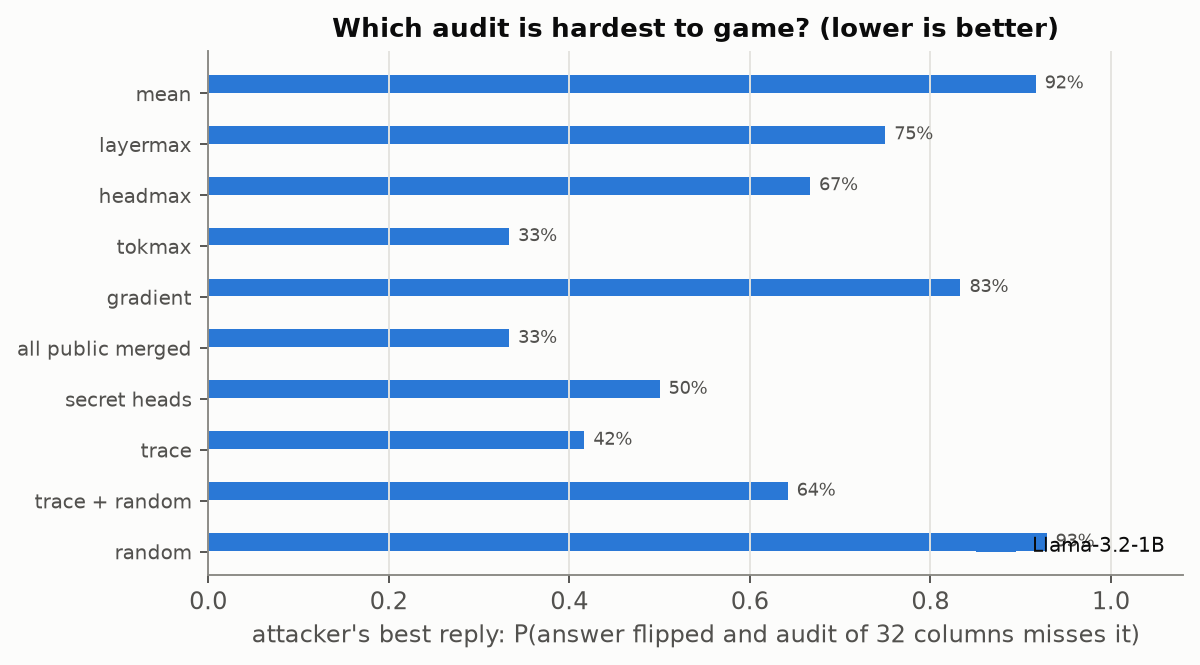
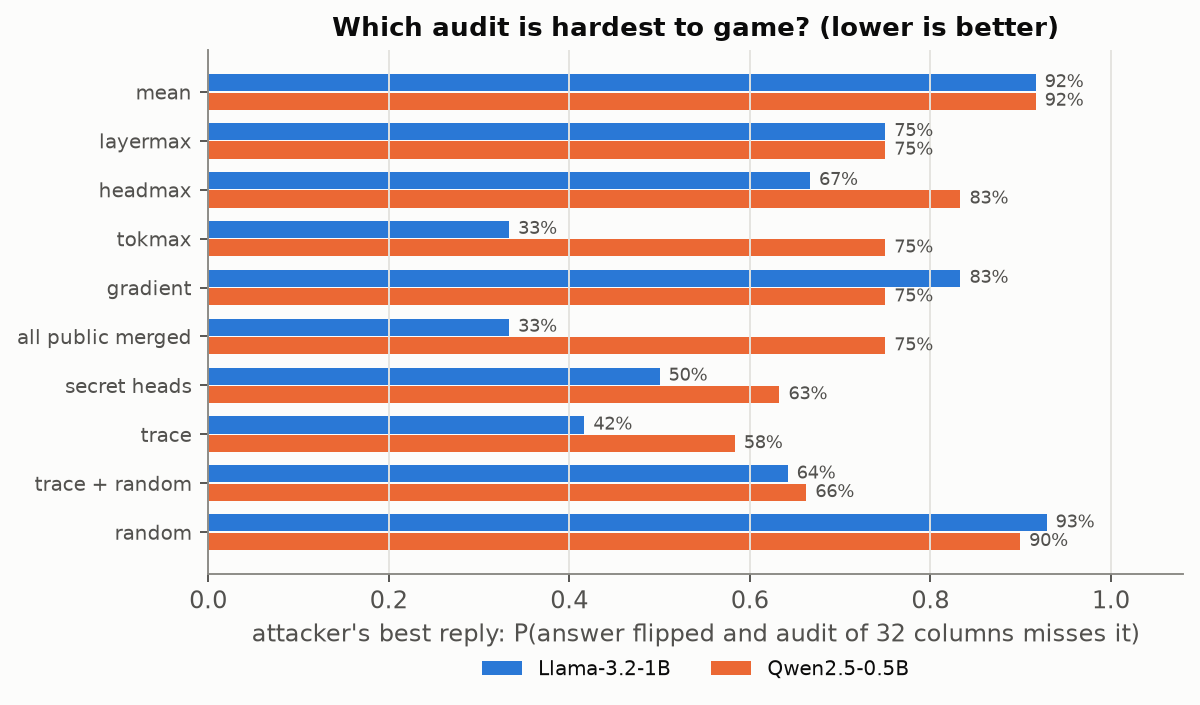
Report defense game across both models

diff --git a/docs/paper.html b/docs/paper.html
@@ -52,7 +52,7 @@ code{font-size:13px}.refs{font-size:13.5px}
 <h2>4. One column is enough</h2><p>We forge one column, at one of five depths and three kinds of position: the last token of the fact's value, a uniformly random non-sink token, and the last document token. The forger may change the residual stream there by up to β times its norm. It then runs the rest of the prefill honestly. Over 24 memos per model (mean length 446 and 429 tokens) and 576 attacks per model, 446 of the Llama forgeries and 434 of the Qwen forgeries made the trusted node answer exactly the attacker's value. At β&nbsp;=&nbsp;1, the success rate across all layers and positions is 86% for Llama and 80% for Qwen. Position barely matters: a forged column on an unrelated token, far from the fact, works about as well as one on the fact itself. The attack does not need to edit the fact. It needs one place the question reads.</p><p>The full column check confirms the structure from §3.1. In 99.8% (Llama) and 98.6% (Qwen) of successful forgeries, the forged column is the <i>only</i> column that fails. The few exceptions are forgeries that also change later columns enough to show. No honest cache failed a single column: the largest honest score over all 48 evaluation memos was 0.79 for Llama and 0.98 for Qwen, against a threshold of 1. These memos are disjoint from the 20 calibration memos.</p><figure><img src="figures/forge_success.png" alt="forge_success"><figcaption>Figure 1. Success rate of single-column forgeries (β = 1) by layer and position kind, with 95% Wilson intervals.</figcaption></figure><figure><img src="figures/forge_budget.png" alt="forge_budget"><figcaption>Figure 2. Success against the perturbation budget β at the middle layer.</figcaption></figure><table class=""><tr><th>model</th><th>layer</th><th>β</th><th>success</th><th>value pos.</th><th>random pos.</th><th>last pos.</th><th>only forged col. fails</th></tr><tr><td>Llama-3.2-1B</td><td>1</td><td>1</td><td>60/72</td><td>96%</td><td>75%</td><td>79%</td><td>98%</td></tr><tr><td>Llama-3.2-1B</td><td>4</td><td>1</td><td>60/72</td><td>92%</td><td>88%</td><td>71%</td><td>100%</td></tr><tr><td>Llama-3.2-1B</td><td>8</td><td>0.25</td><td>12/72</td><td>29%</td><td>8%</td><td>12%</td><td>100%</td></tr><tr><td>Llama-3.2-1B</td><td>8</td><td>0.5</td><td>55/72</td><td>71%</td><td>71%</td><td>88%</td><td>100%</td></tr><tr><td>Llama-3.2-1B</td><td>8</td><td>1</td><td>69/72</td><td>96%</td><td>96%</td><td>96%</td><td>100%</td></tr><tr><td>Llama-3.2-1B</td><td>8</td><td>2</td><td>70/72</td><td>92%</td><td>100%</td><td>100%</td><td>100%</td></tr><tr><td>Llama-3.2-1B</td><td>12</td><td>1</td><td>66/72</td><td>83%</td><td>92%</td><td>100%</td><td>100%</td></tr><tr><td>Llama-3.2-1B</td><td>15</td><td>1</td><td>54/72</td><td>50%</td><td>83%</td><td>92%</td><td>100%</td></tr><tr><td>Qwen2.5-0.5B</td><td>1</td><td>1</td><td>47/72</td><td>92%</td><td>58%</td><td>46%</td><td>96%</td></tr><tr><td>Qwen2.5-0.5B</td><td>6</td><td>1</td><td>66/72</td><td>100%</td><td>83%</td><td>92%</td><td>95%</td></tr><tr><td>Qwen2.5-0.5B</td><td>12</td><td>0.25</td><td>18/72</td><td>25%</td><td>21%</td><td>29%</td><td>100%</td></tr><tr><td>Qwen2.5-0.5B</td><td>12</td><td>0.5</td><td>58/72</td><td>83%</td><td>67%</td><td>92%</td><td>100%</td></tr><tr><td>Qwen2.5-0.5B</td><td>12</td><td>1</td><td>69/72</td><td>96%</td><td>96%</td><td>96%</td><td>100%</td></tr><tr><td>Qwen2.5-0.5B</td><td>12</td><td>2</td><td>70/72</td><td>100%</td><td>96%</td><td>96%</td><td>99%</td></tr><tr><td>Qwen2.5-0.5B</td><td>18</td><td>1</td><td>66/72</td><td>83%</td><td>92%</td><td>100%</td><td>100%</td></tr><tr><td>Qwen2.5-0.5B</td><td>23</td><td>1</td><td>40/72</td><td>71%</td><td>58%</td><td>38%</td><td>100%</td></tr></table><p class='cap'>Table 1. Single-column forgeries. 24 tasks × 3 positions per row.</p>
 <h2>5. Auditing where the question reads</h2><p>A full check is a second prefill, so the practical question is how few columns an audit needs. Uniform sampling of <i>k</i> columns catches one bad column with probability <i>k/T</i>. The data match: 64 random columns catch 15% of Llama forgeries and 15% of Qwen forgeries. Checking the 4 sinks plus the 4 columns with the highest value-weighted attention (<i>k</i>&nbsp;=&nbsp;8 in total) catches 91% and 77%. With <i>k</i>&nbsp;=&nbsp;32 it catches 98% and 95%. The median forged column is the 5th most-read column, counting the four sinks: to change the answer, the forged column has to be read, and reading is visible. In 79% of Llama forgeries and 66% of Qwen forgeries, the single most-read non-sink column <i>is</i> the forged one.</p><p>Forgeries on the last document token are the easiest to find (top-8 catches 97% on Llama). The last token is read heavily by the question in any case. Forgeries on the fact's own value token are the hardest (84%), because the honest value token is already among the most-read, so a forgery there competes with the real signal. Qwen is harder throughout. With only 2 KV heads, its attention spreads over more columns, so the forged one is less of an outlier.</p><figure><img src="figures/detection.png" alt="detection"><figcaption>Figure 3. Probability that an audit of k columns contains the forged column. Exact hypergeometric probabilities for random plans, averaged over successful forgeries.</figcaption></figure><table class=""><tr><th>model</th><th>forgeries</th><th>top-8</th><th>top-16</th><th>top-32</th><th>top-8 + 8 random</th><th>random 4</th><th>random 16</th><th>random 64</th></tr><tr><td>Llama-3.2-1B</td><td>446</td><td>91%</td><td>96%</td><td>98%</td><td>91%</td><td>0.9%</td><td>3.7%</td><td>14.5%</td></tr><tr><td>Qwen2.5-0.5B</td><td>434</td><td>77%</td><td>86%</td><td>95%</td><td>78%</td><td>0.9%</td><td>3.8%</td><td>15.1%</td></tr></table><p class='cap'>Table 2. Detection of successful single-column forgeries. Top-k includes the 4 sink columns.</p><h3>5.1 Long documents</h3><p>The ratio matters more as documents grow. With the facts scattered through Moby-Dick (Llama, layers L/4, L/2, 3L/4), a 2044-token cache leaves uniform 64-column audits at 3.2%, while top-32 still catches 100%. The forged column's median rank stays small as <i>T</i> grows, so the audit cost in columns stays flat while the uniform cost grows linearly.</p><table class=""><tr><th>T (tokens)</th><th>success</th><th>only forged fails</th><th>top-8</th><th>top-16</th><th>top-32</th><th>random 64</th><th>median rank</th></tr><tr><td>2044</td><td>97/108</td><td>99.0%</td><td>96%</td><td>100%</td><td>100%</td><td>3.2%</td><td>5</td></tr></table><p class='cap'>Table 3. Llama-3.2-1B on long documents.</p>
 <h2>6. Adaptive attackers</h2><p>The audit's strength in §5 rests on a forged column having to be read. An attacker who knows the scoring rule can try to be read <i>enough</i> without being read <i>most</i>. Our adaptive forger adds a hinge penalty that pushes each forged column's score below 0.7× the score of the <i>k</i>-th ranked other column. The score is computed on its own forged cache with the trusted node's question, which we let the attacker know in advance. It attacks one of two scores: <i>mean</i> (the default in §5) or <i>layermax</i> (per-layer normalised, max over layers). It can also spread the edit over <i>m</i> random columns.</p><h3>Llama-3.2-1B</h3><table class="small"><tr><th>attacker</th><th>success</th><th>rank (mean)</th><th>rank (layermax)</th><th>rank (grad)</th><th>top-32 mean</th><th>top-32 layermax</th><th>ensemble-16</th><th>top-32 + 32 random</th><th>random 64</th><th>direct</th></tr><tr><td>no hiding (λ = 0)</td><td>16/16</td><td>0</td><td>0</td><td>0</td><td>100%</td><td>100%</td><td>100%</td><td>100%</td><td>14%</td><td>100%</td></tr><tr><td>m = 1, hide below top-4, vs. mean</td><td>14/16</td><td>10</td><td>0</td><td>22</td><td>100%</td><td>100%</td><td>100%</td><td>100%</td><td>15%</td><td>71%</td></tr><tr><td>m = 1, hide below top-28, vs. mean</td><td>10/16</td><td>50</td><td>11</td><td>49</td><td>0%</td><td>100%</td><td>70%</td><td>8%</td><td>15%</td><td>60%</td></tr><tr><td>m = 1, hide below top-4, vs. layermax</td><td>12/16</td><td>38</td><td>10</td><td>54</td><td>42%</td><td>100%</td><td>92%</td><td>47%</td><td>15%</td><td>83%</td></tr><tr><td>m = 1, hide below top-12, vs. layermax</td><td>9/16</td><td>20</td><td>23</td><td>38</td><td>67%</td><td>78%</td><td>56%</td><td>69%</td><td>16%</td><td>78%</td></tr><tr><td>m = 1, hide below top-28, vs. layermax</td><td>8/16</td><td>50</td><td>35</td><td>47</td><td>25%</td><td>38%</td><td>38%</td><td>32%</td><td>16%</td><td>75%</td></tr><tr><td>m = 1, hide below top-60, vs. layermax</td><td>6/16</td><td>2</td><td>8</td><td>26</td><td>83%</td><td>83%</td><td>83%</td><td>85%</td><td>14%</td><td>100%</td></tr><tr><td>m = 4, hide below top-12, vs. layermax</td><td>13/16</td><td>4</td><td>7</td><td>14</td><td>77%</td><td>100%</td><td>85%</td><td>84%</td><td>47%</td><td>92%</td></tr><tr><td>m = 16, hide below top-12, vs. layermax</td><td>13/16</td><td>0</td><td>0</td><td>1</td><td>100%</td><td>100%</td><td>100%</td><td>100%</td><td>92%</td><td>92%</td></tr><tr><td>m = 64, hide below top-12, vs. layermax</td><td>15/16</td><td>0</td><td>0</td><td>0</td><td>100%</td><td>100%</td><td>100%</td><td>100%</td><td>100%</td><td>100%</td></tr></table><h3>Qwen2.5-0.5B</h3><table class="small"><tr><th>attacker</th><th>success</th><th>rank (mean)</th><th>rank (layermax)</th><th>rank (grad)</th><th>top-32 mean</th><th>top-32 layermax</th><th>ensemble-16</th><th>top-32 + 32 random</th><th>random 64</th><th>direct</th></tr><tr><td>no hiding (λ = 0)</td><td>16/16</td><td>0</td><td>0</td><td>7</td><td>100%</td><td>100%</td><td>100%</td><td>100%</td><td>18%</td><td>100%</td></tr><tr><td>m = 1, hide below top-4, vs. mean</td><td>15/16</td><td>12</td><td>0</td><td>23</td><td>87%</td><td>87%</td><td>87%</td><td>88%</td><td>16%</td><td>73%</td></tr><tr><td>m = 1, hide below top-28, vs. mean</td><td>12/16</td><td>49</td><td>1</td><td>100</td><td>8%</td><td>92%</td><td>75%</td><td>17%</td><td>17%</td><td>50%</td></tr><tr><td>m = 1, hide below top-4, vs. layermax</td><td>15/16</td><td>24</td><td>11</td><td>44</td><td>53%</td><td>67%</td><td>67%</td><td>58%</td><td>20%</td><td>40%</td></tr><tr><td>m = 1, hide below top-12, vs. layermax</td><td>11/16</td><td>24</td><td>21</td><td>56</td><td>55%</td><td>82%</td><td>45%</td><td>60%</td><td>17%</td><td>73%</td></tr><tr><td>m = 1, hide below top-28, vs. layermax</td><td>9/16</td><td>87</td><td>51</td><td>110</td><td>33%</td><td>0%</td><td>0%</td><td>39%</td><td>15%</td><td>56%</td></tr><tr><td>m = 1, hide below top-60, vs. layermax</td><td>6/16</td><td>46</td><td>90</td><td>72</td><td>33%</td><td>17%</td><td>33%</td><td>40%</td><td>17%</td><td>33%</td></tr><tr><td>m = 4, hide below top-12, vs. layermax</td><td>13/16</td><td>10</td><td>14</td><td>28</td><td>77%</td><td>92%</td><td>77%</td><td>84%</td><td>51%</td><td>92%</td></tr><tr><td>m = 16, hide below top-12, vs. layermax</td><td>14/16</td><td>6</td><td>12</td><td>11</td><td>100%</td><td>100%</td><td>100%</td><td>100%</td><td>93%</td><td>100%</td></tr><tr><td>m = 64, hide below top-12, vs. layermax</td><td>14/16</td><td>0</td><td>0</td><td>1</td><td>100%</td><td>100%</td><td>100%</td><td>100%</td><td>100%</td><td>93%</td></tr></table><p class='cap'>Table 4. Adaptive forgeries at the middle layer, β = 1. Ranks are the median over successful attacks of the best-hidden forged column's rank among non-sink columns (0 = most read). Detection columns are the probability of catching it. Ensemble-16 is the union of the top 16 under all three scores, plus the sinks (≈ 30–45 columns). <i>Direct</i> is the fraction where putting the honest forged columns back restores the honest answer, so the effect does not run through other columns.</p><p><b>A single score can be gamed.</b> Without the penalty, the forged column is ranked 0 (median, among non-sink columns). An attacker hiding below the top 28 under the mean score still succeeds in 10/16 tasks and lands at rank 50, so top-32 under that score catches it 0% of the time. The same forgery is ranked 11 by layermax: the mean score is low because the column is read hard at a few layers, not lightly everywhere.</p><p><b>Gaming the stronger score works too.</b> Attacking layermax directly with hide-28, the forger succeeds in 8/16 tasks. Its column then ranks 35 under layermax, 50 under mean and 47 under the gradient score, and top-32 layermax catches 38%. The union of the top 16 under all three scores catches 38%, with about 32 columns. This is the honest result: an attacker that knows the score can lower it. A deterministic top-k audit is an arms race, not a guarantee.</p><p>Qwen2.5-0.5B is easier to game. The same attacker succeeds in 9/16 tasks, and top-32 layermax catches 0% of them, the ensemble 0%. Only the random columns still find it, at the k/T rate (15% for 64).</p><p><b>Spreading out costs the attacker detectability elsewhere.</b> With m&nbsp;=&nbsp;64 forged columns hidden from layermax top-12, it succeeds in 15/16 tasks, but each of those caches has 64 failing columns, so 64 random columns catch it 100% of the time. That is the case random draws are for. Mixing the two (top-32 + 32 random) covers both ends: 100% here.</p><p>So the deterministic part of an audit should be treated as a cheap filter for non-adaptive faults and attacks. Guarantees against an adaptive forger come only from the random part, at <i>k/T</i> per forged column, or from a full recompute of whatever the audit's budget cannot cover.</p><figure><img src="figures/adaptive.png" alt="adaptive"><figcaption>Figure 4. Adaptive attackers. Left: where the forged column lands in each ranking. Right: detection by audit plan.</figcaption></figure>
-<h3>6.1 Round two: audits the attacker cannot see</h3><p>Two things stand out in Table 4. Different scores disagree about where a hidden column lands, and in 25–60% of successful hidden forgeries, putting the honest column back does <i>not</i> restore the answer. The forgery has been <i>laundered</i>: later columns read the forged one during prefill, carry its effect forward, and the question reads them instead. Those later columns are consistent with their inputs, so they pass the check. This suggests two defenses. The first is scores the attacker cannot optimise against: finer ones (per head, per reader token) and a <b>secret</b> one, a random quarter of the heads with random weights, drawn by the verifier for each audit. The second is <b>tracing</b>. The audit recomputes its columns anyway, and the recomputation yields each column's own attention to earlier columns. So after auditing the most-read columns, the verifier follows what <i>they</i> read most (value-weighted, per head, max over layers), audits those, and repeats until the budget is spent (Algorithm: half the budget on merged public scores, the rest in rounds of B/8 traced columns).</p><p>We test this against seven attackers that hide one forged column below the 28 most-read columns of one public score, of all four at once, or of all four <i>and</i> the tracing rule itself, using a differentiable copy of the trace rows on the forged prefill. 12 tasks per model, 150 Adam steps, middle layer, β = 1. Every plan audits exactly 32 columns, including the 4 sinks.</p><h3>Llama-3.2-1B</h3><table class="small"><tr><th>attacker</th><th>success</th><th>mean</th><th>layermax</th><th>headmax</th><th>tokmax</th><th>gradient</th><th>all public merged</th><th>secret heads</th><th>trace</th><th>trace + random</th><th>random</th></tr><tr><td>no hiding</td><td>12/12</td><td>100%</td><td>100%</td><td>100%</td><td>100%</td><td>100%</td><td>100%</td><td>99%</td><td>100%</td><td>100%</td><td>7%</td></tr><tr><td>hides from mean</td><td>11/12</td><td>0%</td><td>91%</td><td>100%</td><td>100%</td><td>9%</td><td>100%</td><td>45%</td><td>100%</td><td>39%</td><td>7%</td></tr><tr><td>hides from layermax</td><td>10/12</td><td>20%</td><td>10%</td><td>50%</td><td>90%</td><td>20%</td><td>70%</td><td>43%</td><td>60%</td><td>42%</td><td>7%</td></tr><tr><td>hides from headmax</td><td>8/12</td><td>62%</td><td>88%</td><td>0%</td><td>88%</td><td>25%</td><td>88%</td><td>45%</td><td>38%</td><td>4%</td><td>7%</td></tr><tr><td>hides from tokmax</td><td>7/12</td><td>86%</td><td>86%</td><td>100%</td><td>71%</td><td>86%</td><td>86%</td><td>82%</td><td>86%</td><td>86%</td><td>7%</td></tr><tr><td>hides from all public</td><td>4/12</td><td>0%</td><td>0%</td><td>0%</td><td>0%</td><td>0%</td><td>0%</td><td>9%</td><td>25%</td><td>28%</td><td>7%</td></tr><tr><td>hides from all public + trace</td><td>4/12</td><td>0%</td><td>0%</td><td>0%</td><td>25%</td><td>0%</td><td>0%</td><td>9%</td><td>25%</td><td>28%</td><td>7%</td></tr></table><p class='cap'>Table 5. Probability that a 32-column audit catches a successful forgery, by attacker (rows) and audit plan (columns). Secret: mean over 32 secret draws. Random parts are exact hypergeometric probabilities.</p><figure><img src="figures/defense.png" alt="defense"><figcaption>Figure 5. Round two of the arms race. Each cell: share of successful forgeries a 32-column audit catches.</figcaption></figure><p><b>The game.</b> An audit plan is only as good as the attacker's best reply to it. For each plan, Table 6 gives the share of tasks in which the <i>best</i> of our seven attackers both flips the answer and escapes the audit (success rate × miss rate, maximised over attackers). On Llama-3.2-1B, against a 32-column audit the attacker's best reply wins 92% of the time if the verifier uses the default mean score, 93% against random columns, and 33% against the best plan, <i>tokmax</i> (its best reply there: <i>hides from all public</i>).</p><table class="small"><tr><th>audit plan</th><th>Llama B=16</th><th>Llama B=32</th><th>Llama B=64</th></tr><tr><td>mean</td><td>92%</td><td>92%</td><td>25%</td></tr><tr><td>layermax</td><td>83%</td><td>75%</td><td>25%</td></tr><tr><td>headmax</td><td>67%</td><td>67%</td><td>25%</td></tr><tr><td>tokmax</td><td>33%</td><td>33%</td><td>17%</td></tr><tr><td>gradient</td><td>92%</td><td>83%</td><td>50%</td></tr><tr><td>all public merged</td><td>67%</td><td>33%</td><td>25%</td></tr><tr><td>secret heads</td><td>64%</td><td>50%</td><td>32%</td></tr><tr><td>trace</td><td>67%</td><td>42%</td><td>25%</td></tr><tr><td>trace + random</td><td>97%</td><td>64%</td><td>38%</td></tr><tr><td>random</td><td>96%</td><td>93%</td><td>86%</td></tr></table><p class='cap'>Table 6. Worst-case attacker win rate per audit plan (lower is better for the verifier), at audit budgets of 16, 32 and 64 columns.</p><figure><img src="figures/game.png" alt="game"><figcaption>Figure 6. The attacker's best reply to each 32-column audit plan: how often it both flips the answer and escapes the audit.</figcaption></figure><p>Three findings. First, <b>the finest score is the hardest to game</b>. Per-reader-token value-weighted attention (tokmax) makes the attacker keep its column quiet in every head of every layer for every question and answer token, while still moving the answer. An attacker that optimises directly against tokmax on Llama-3.2-1B succeeds in only 7/12 tasks and is still caught 71% of the time by it. Second, <b>secrecy over heads buys little</b>. An attacker that hides from per-head scores keeps its column quiet in every head, and a secret subset of heads inherits that. Third, <b>tracing helps against some attackers and not others</b>. It catches forgeries that are laundered through later columns, but in our runs it does not beat the best public score at equal budget. The deterministic plans all remain games against a known optimiser. Our attackers are 150 Adam steps with one hinge loss per score, so these rates are what a modest white-box attacker achieves, not a bound. Random columns give the only attacker-independent guarantee, and at k/T it is a weak one.</p>
+<h3>6.1 Round two: audits the attacker cannot see</h3><p>Two things stand out in Table 4. Different scores disagree about where a hidden column lands, and in 25–60% of successful hidden forgeries, putting the honest column back does <i>not</i> restore the answer. The forgery has been <i>laundered</i>: later columns read the forged one during prefill, carry its effect forward, and the question reads them instead. Those later columns are consistent with their inputs, so they pass the check. This suggests two defenses. The first is scores the attacker cannot optimise against: finer ones (per head, per reader token) and a <b>secret</b> one, a random quarter of the heads with random weights, drawn by the verifier for each audit. The second is <b>tracing</b>. The audit recomputes its columns anyway, and the recomputation yields each column's own attention to earlier columns. So after auditing the most-read columns, the verifier follows what <i>they</i> read most (value-weighted, per head, max over layers), audits those, and repeats until the budget is spent (Algorithm: half the budget on merged public scores, the rest in rounds of B/8 traced columns).</p><p>We test this against seven attackers that hide one forged column below the 28 most-read columns of one public score, of all four at once, or of all four <i>and</i> the tracing rule itself, using a differentiable copy of the trace rows on the forged prefill. 12 tasks per model, 150 Adam steps, middle layer, β = 1. Every plan audits exactly 32 columns, including the 4 sinks.</p><h3>Llama-3.2-1B</h3><table class="small"><tr><th>attacker</th><th>success</th><th>mean</th><th>layermax</th><th>headmax</th><th>tokmax</th><th>gradient</th><th>all public merged</th><th>secret heads</th><th>trace</th><th>trace + random</th><th>random</th></tr><tr><td>no hiding</td><td>12/12</td><td>100%</td><td>100%</td><td>100%</td><td>100%</td><td>100%</td><td>100%</td><td>99%</td><td>100%</td><td>100%</td><td>7%</td></tr><tr><td>hides from mean</td><td>11/12</td><td>0%</td><td>91%</td><td>100%</td><td>100%</td><td>9%</td><td>100%</td><td>45%</td><td>100%</td><td>39%</td><td>7%</td></tr><tr><td>hides from layermax</td><td>10/12</td><td>20%</td><td>10%</td><td>50%</td><td>90%</td><td>20%</td><td>70%</td><td>43%</td><td>60%</td><td>42%</td><td>7%</td></tr><tr><td>hides from headmax</td><td>8/12</td><td>62%</td><td>88%</td><td>0%</td><td>88%</td><td>25%</td><td>88%</td><td>45%</td><td>38%</td><td>4%</td><td>7%</td></tr><tr><td>hides from tokmax</td><td>7/12</td><td>86%</td><td>86%</td><td>100%</td><td>71%</td><td>86%</td><td>86%</td><td>82%</td><td>86%</td><td>86%</td><td>7%</td></tr><tr><td>hides from all public</td><td>4/12</td><td>0%</td><td>0%</td><td>0%</td><td>0%</td><td>0%</td><td>0%</td><td>9%</td><td>25%</td><td>28%</td><td>7%</td></tr><tr><td>hides from all public + trace</td><td>4/12</td><td>0%</td><td>0%</td><td>0%</td><td>25%</td><td>0%</td><td>0%</td><td>9%</td><td>25%</td><td>28%</td><td>7%</td></tr></table><h3>Qwen2.5-0.5B</h3><table class="small"><tr><th>attacker</th><th>success</th><th>mean</th><th>layermax</th><th>headmax</th><th>tokmax</th><th>gradient</th><th>all public merged</th><th>secret heads</th><th>trace</th><th>trace + random</th><th>random</th></tr><tr><td>no hiding</td><td>12/12</td><td>100%</td><td>100%</td><td>100%</td><td>100%</td><td>100%</td><td>100%</td><td>88%</td><td>100%</td><td>100%</td><td>10%</td></tr><tr><td>hides from mean</td><td>11/12</td><td>0%</td><td>100%</td><td>91%</td><td>82%</td><td>18%</td><td>82%</td><td>39%</td><td>82%</td><td>40%</td><td>10%</td></tr><tr><td>hides from layermax</td><td>10/12</td><td>60%</td><td>10%</td><td>20%</td><td>30%</td><td>20%</td><td>10%</td><td>31%</td><td>30%</td><td>20%</td><td>16%</td></tr><tr><td>hides from headmax</td><td>10/12</td><td>40%</td><td>60%</td><td>0%</td><td>30%</td><td>10%</td><td>10%</td><td>24%</td><td>60%</td><td>23%</td><td>11%</td></tr><tr><td>hides from tokmax</td><td>9/12</td><td>67%</td><td>89%</td><td>67%</td><td>0%</td><td>33%</td><td>67%</td><td>50%</td><td>78%</td><td>16%</td><td>10%</td></tr><tr><td>hides from all public</td><td>5/12</td><td>0%</td><td>0%</td><td>0%</td><td>0%</td><td>0%</td><td>0%</td><td>9%</td><td>40%</td><td>5%</td><td>9%</td></tr><tr><td>hides from all public + trace</td><td>5/12</td><td>0%</td><td>0%</td><td>0%</td><td>0%</td><td>0%</td><td>0%</td><td>9%</td><td>40%</td><td>5%</td><td>9%</td></tr></table><p class='cap'>Table 5. Probability that a 32-column audit catches a successful forgery, by attacker (rows) and audit plan (columns). Secret: mean over 32 secret draws. Random parts are exact hypergeometric probabilities.</p><figure><img src="figures/defense.png" alt="defense"><figcaption>Figure 5. Round two of the arms race. Each cell: share of successful forgeries a 32-column audit catches.</figcaption></figure><p><b>The game.</b> An audit plan is only as good as the attacker's best reply to it. For each plan, Table 6 gives the share of tasks in which the <i>best</i> of our seven attackers both flips the answer and escapes the audit (success rate × miss rate, maximised over attackers). On Llama-3.2-1B, against a 32-column audit the attacker's best reply wins 92% of the time if the verifier uses the default mean score, 93% against random columns, and 33% against the best plan, <i>tokmax</i> (its best reply there: <i>hides from all public</i>). On Qwen2.5-0.5B, against a 32-column audit the attacker's best reply wins 92% of the time if the verifier uses the default mean score, 90% against random columns, and 58% against the best plan, <i>trace</i> (its best reply there: <i>hides from layermax</i>).</p><table class="small"><tr><th>audit plan</th><th>Llama B=16</th><th>Llama B=32</th><th>Llama B=64</th><th>Qwen2.5 B=16</th><th>Qwen2.5 B=32</th><th>Qwen2.5 B=64</th></tr><tr><td>mean</td><td>92%</td><td>92%</td><td>25%</td><td>92%</td><td>92%</td><td>33%</td></tr><tr><td>layermax</td><td>83%</td><td>75%</td><td>25%</td><td>83%</td><td>75%</td><td>33%</td></tr><tr><td>headmax</td><td>67%</td><td>67%</td><td>25%</td><td>83%</td><td>83%</td><td>42%</td></tr><tr><td>tokmax</td><td>33%</td><td>33%</td><td>17%</td><td>83%</td><td>75%</td><td>42%</td></tr><tr><td>gradient</td><td>92%</td><td>83%</td><td>50%</td><td>83%</td><td>75%</td><td>67%</td></tr><tr><td>all public merged</td><td>67%</td><td>33%</td><td>25%</td><td>83%</td><td>75%</td><td>42%</td></tr><tr><td>secret heads</td><td>64%</td><td>50%</td><td>32%</td><td>74%</td><td>63%</td><td>50%</td></tr><tr><td>trace</td><td>67%</td><td>42%</td><td>25%</td><td>75%</td><td>58%</td><td>25%</td></tr><tr><td>trace + random</td><td>97%</td><td>64%</td><td>38%</td><td>96%</td><td>66%</td><td>46%</td></tr><tr><td>random</td><td>96%</td><td>93%</td><td>86%</td><td>95%</td><td>90%</td><td>81%</td></tr></table><p class='cap'>Table 6. Worst-case attacker win rate per audit plan (lower is better for the verifier), at audit budgets of 16, 32 and 64 columns.</p><figure><img src="figures/game.png" alt="game"><figcaption>Figure 6. The attacker's best reply to each 32-column audit plan: how often it both flips the answer and escapes the audit.</figcaption></figure><p><b>What holds on both models.</b> (1) The default mean score is the easiest to game: the best reply beats a 32-column mean audit 92% of the time on Llama-3.2-1B and 92% of the time on Qwen2.5-0.5B, no better than 32 random columns (93%, 90%). (2) No single public score is robust across models. The finest one, tokmax (per head, layer and reader token), holds the attacker to 33% on Llama-3.2-1B but 75% on Qwen2.5-0.5B. (3) Tracing is the most consistent plan: 42% on Llama-3.2-1B and 58% on Qwen2.5-0.5B. It does not rely on any one score, but follows the path the forged information has to take to reach the question. The attacker that also optimises against the trace rule did exactly as well as the one that ignores it, in success and in detection. Our differentiable copy of the trace covers one hop from a fixed set of read columns, while the verifier keeps following hops until its budget runs out; a stronger trace-aware attacker is the obvious next step. (4) Secret head subsets help only modestly (50%, 63%): an attacker that is quiet in every head is quiet in any subset of them.</p><p>Two caveats. The attackers hide below rank 28, which matches the 32-column budget. At 64 columns every attention-based plan looks strong (tracing 25% on Llama-3.2-1B, tracing 25% on Qwen2.5-0.5B) only because the attackers were not told about the larger budget. And all of these are games against our optimiser (150 Adam steps, one hinge loss per score), so the rates describe a modest white-box attacker, not a bound. Random columns give the only attacker-independent guarantee, and at k/T it is a weak one.</p>
 <h2>7. Hiding inside the tolerance</h2><p>bf16 forces a tolerance, and a tolerance is room. We test two attackers that try to stay inside it. The <i>edit</i> attacker changes every stored entry at every layer in place, by at most ρ × the largest honest error. The <i>distributed forger</i> nudges the residual stream of every document column at the middle layer by a relative ε, then computes everything else honestly, so each column carries only its own small inconsistency.</p><table class="small"><tr><th>model</th><th>dtype</th><th>attack</th><th>ρ or ε</th><th>success</th><th>failing columns (mean)</th><th>fewest failing when it worked</th><th>median max score</th></tr><tr><td>Llama-3.2-1B</td><td>bf16</td><td>edit</td><td>0.1</td><td>0%</td><td>0 / 446</td><td>–</td><td>0.9</td></tr><tr><td>Llama-3.2-1B</td><td>bf16</td><td>edit</td><td>0.3</td><td>58%</td><td>278 / 446</td><td>131</td><td>2.9</td></tr><tr><td>Llama-3.2-1B</td><td>bf16</td><td>edit</td><td>1</td><td>100%</td><td>444 / 446</td><td>427</td><td>8.1</td></tr><tr><td>Llama-3.2-1B</td><td>bf16</td><td>forge</td><td>0.001</td><td>0%</td><td>0 / 446</td><td>–</td><td>0.7</td></tr><tr><td>Llama-3.2-1B</td><td>bf16</td><td>forge</td><td>0.003</td><td>0%</td><td>0 / 446</td><td>–</td><td>0.8</td></tr><tr><td>Llama-3.2-1B</td><td>bf16</td><td>forge</td><td>0.01</td><td>8%</td><td>9 / 446</td><td>8</td><td>1.7</td></tr><tr><td>Llama-3.2-1B</td><td>bf16</td><td>forge</td><td>0.03</td><td>8%</td><td>298 / 446</td><td>290</td><td>4.9</td></tr><tr><td>Llama-3.2-1B</td><td>bf16</td><td>forge</td><td>0.1</td><td>100%</td><td>442 / 446</td><td>425</td><td>10.3</td></tr><tr><td>Llama-3.2-1B</td><td>fp32</td><td>edit</td><td>0.1</td><td>0%</td><td>0 / 444</td><td>–</td><td>0.9</td></tr><tr><td>Llama-3.2-1B</td><td>fp32</td><td>edit</td><td>0.3</td><td>0%</td><td>73 / 444</td><td>–</td><td>2.1</td></tr><tr><td>Llama-3.2-1B</td><td>fp32</td><td>edit</td><td>1</td><td>0%</td><td>436 / 444</td><td>–</td><td>6.9</td></tr><tr><td>Llama-3.2-1B</td><td>fp32</td><td>forge</td><td>1e-05</td><td>0%</td><td>437 / 444</td><td>–</td><td>7.3</td></tr><tr><td>Llama-3.2-1B</td><td>fp32</td><td>forge</td><td>0.0001</td><td>0%</td><td>440 / 444</td><td>–</td><td>72.4</td></tr><tr><td>Llama-3.2-1B</td><td>fp32</td><td>forge</td><td>0.001</td><td>0%</td><td>440 / 444</td><td>–</td><td>731.9</td></tr><tr><td>Llama-3.2-1B</td><td>fp32</td><td>forge</td><td>0.01</td><td>12%</td><td>440 / 444</td><td>446</td><td>6669.5</td></tr><tr><td>Llama-3.2-1B</td><td>fp32</td><td>forge</td><td>0.1</td><td>100%</td><td>440 / 444</td><td>425</td><td>43598.8</td></tr><tr><td>Qwen2.5-0.5B</td><td>bf16</td><td>edit</td><td>0.1</td><td>8%</td><td>127 / 430</td><td>104</td><td>2.4</td></tr><tr><td>Qwen2.5-0.5B</td><td>bf16</td><td>edit</td><td>0.3</td><td>83%</td><td>426 / 430</td><td>408</td><td>7.0</td></tr><tr><td>Qwen2.5-0.5B</td><td>bf16</td><td>edit</td><td>1</td><td>100%</td><td>429 / 430</td><td>410</td><td>20.1</td></tr><tr><td>Qwen2.5-0.5B</td><td>bf16</td><td>forge</td><td>0.001</td><td>0%</td><td>0 / 430</td><td>–</td><td>0.7</td></tr><tr><td>Qwen2.5-0.5B</td><td>bf16</td><td>forge</td><td>0.003</td><td>0%</td><td>0 / 430</td><td>–</td><td>0.7</td></tr><tr><td>Qwen2.5-0.5B</td><td>bf16</td><td>forge</td><td>0.01</td><td>17%</td><td>1 / 430</td><td>0</td><td>1.1</td></tr><tr><td>Qwen2.5-0.5B</td><td>bf16</td><td>forge</td><td>0.03</td><td>25%</td><td>75 / 430</td><td>44</td><td>2.7</td></tr><tr><td>Qwen2.5-0.5B</td><td>bf16</td><td>forge</td><td>0.1</td><td>100%</td><td>426 / 430</td><td>407</td><td>6.9</td></tr></table><p class='cap'>Table 7. Attacks that try to stay inside the bf16 (or fp32) tolerance.</p><p>Llama-3.2-1B bf16: the quietest successful attack (forge, ε = 0.01) left 8 of 446 columns failing, which 16 random columns would catch with probability 25% and 64 with 69%; Llama-3.2-1B fp32: the quietest successful attack (forge, ε = 0.1) left 425 of 444 columns failing, which 16 random columns would catch with probability 100% and 64 with 100%. Below the tolerance (ρ = 0.1, ε ≤ 0.003 in bf16) nothing succeeded on Llama. The band between the tolerance and an effective attack is narrow, because §4 needed perturbations on the order of the residual norm while the tolerance is a few percent of it, and spreading the change over 400 columns does not change that: attention averages the nudges, so effective spread attacks usually break many columns at once, which is exactly what random columns are good at. In fp32 the tolerance is ~10<sup>−6</sup> and every attack lit up almost every column.</p><p><b>But the tolerance is an attack surface.</b> On Qwen2.5-0.5B (bf16), 1 of 12 tasks fell to a distributed forgery (ε = 0.01) that flipped the answer with <i>every</i> column inside the tolerance: its worst column scored just under 1. No column audit, however chosen, can catch that cache, because by the verifier's own standard it is honest. Tightening the threshold would catch it only at the price of false alarms on honest caches, whose worst score was 0.98 on this model. The real fix is a smaller tolerance: batch-invariant, deterministic kernels in prefill and verification, or a verification precision the prefill also uses. In fp32 (tested on Llama), every forgery of this kind lit up hundreds of columns.</p><figure><img src="figures/innoise.png" alt="innoise"><figcaption>Figure 7. In-tolerance attacks: success rate and the number of failing columns as the per-column budget grows.</figcaption></figure>
 <h2>8. Naive tampering and corruption</h2><p><b>In-place edits.</b> An editor that optimises stored K/V directly at one column, without recomputing anything later, makes every later column that reads the edited one disagree with its own recomputation. That holds at every layer except the last, which no later layer reads. So these edits are loud, and even a single random column usually catches them.</p><table class="small"><tr><th>model</th><th>edited layer</th><th>success</th><th>failing columns (median)</th><th>of later columns</th><th>random 1</th><th>random 4</th></tr><tr><td>Llama-3.2-1B</td><td>0</td><td>67%</td><td>216</td><td>100%</td><td>50%</td><td>84%</td></tr><tr><td>Llama-3.2-1B</td><td>4</td><td>100%</td><td>216</td><td>100%</td><td>50%</td><td>84%</td></tr><tr><td>Llama-3.2-1B</td><td>8</td><td>100%</td><td>216</td><td>100%</td><td>48%</td><td>84%</td></tr><tr><td>Llama-3.2-1B</td><td>12</td><td>96%</td><td>216</td><td>100%</td><td>49%</td><td>84%</td></tr><tr><td>Llama-3.2-1B</td><td>15</td><td>100%</td><td>1</td><td>0%</td><td>0%</td><td>1%</td></tr><tr><td>Qwen2.5-0.5B</td><td>0</td><td>0%</td><td>212</td><td>100%</td><td>51%</td><td>84%</td></tr><tr><td>Qwen2.5-0.5B</td><td>6</td><td>50%</td><td>212</td><td>100%</td><td>51%</td><td>84%</td></tr><tr><td>Qwen2.5-0.5B</td><td>12</td><td>83%</td><td>212</td><td>100%</td><td>51%</td><td>84%</td></tr><tr><td>Qwen2.5-0.5B</td><td>18</td><td>21%</td><td>186</td><td>91%</td><td>41%</td><td>77%</td></tr><tr><td>Qwen2.5-0.5B</td><td>23</td><td>8%</td><td>1</td><td>0%</td><td>0%</td><td>1%</td></tr></table><p class='cap'>Table 8. In-place edits of one column (24 per row: 12 tasks × 2 positions).</p><p><b>Bit flips.</b> We flip 2304 random bits per model, uniformly over element, layer, head, position and bit. For Llama, 4.9% change the decoded tokens and 3.7% make the answer wrong. Nearly all the damage comes from bit 14, the top exponent bit, which turns a value of magnitude ~1 into one of ~10<sup>38</sup>. A range check (|x| above the largest honest magnitude at that layer) catches 100% of the harmful flips at zero cost. The full column check flags 28% of all flips, including harmless ones. Hardware faults are therefore the cheap case: a range check plus a small random audit covers them.</p><table class="small"><tr><th>model</th><th>bit</th><th>flips</th><th>output changed</th><th>answer wrong</th><th>check flags it</th><th>range check fires</th></tr><tr><td>Llama-3.2-1B</td><td>15 (sign)</td><td>146</td><td>0%</td><td>0%</td><td>58%</td><td>0%</td></tr><tr><td>Llama-3.2-1B</td><td>14 (exp. MSB)</td><td>132</td><td>64%</td><td>61%</td><td>96%</td><td>79%</td></tr><tr><td>Llama-3.2-1B</td><td>13 (exp.)</td><td>147</td><td>2%</td><td>1%</td><td>36%</td><td>14%</td></tr><tr><td>Llama-3.2-1B</td><td>7 (exp. LSB)</td><td>158</td><td>0%</td><td>0%</td><td>27%</td><td>1%</td></tr><tr><td>Llama-3.2-1B</td><td>0 (mantissa LSB)</td><td>140</td><td>0%</td><td>0%</td><td>0%</td><td>0%</td></tr><tr><td>Qwen2.5-0.5B</td><td>15 (sign)</td><td>146</td><td>0%</td><td>0%</td><td>75%</td><td>0%</td></tr><tr><td>Qwen2.5-0.5B</td><td>14 (exp. MSB)</td><td>132</td><td>59%</td><td>56%</td><td>98%</td><td>75%</td></tr><tr><td>Qwen2.5-0.5B</td><td>13 (exp.)</td><td>147</td><td>1%</td><td>0%</td><td>42%</td><td>14%</td></tr><tr><td>Qwen2.5-0.5B</td><td>7 (exp. LSB)</td><td>158</td><td>0%</td><td>0%</td><td>37%</td><td>1%</td></tr><tr><td>Qwen2.5-0.5B</td><td>0 (mantissa LSB)</td><td>140</td><td>0%</td><td>0%</td><td>7%</td><td>0%</td></tr></table><p class='cap'>Table 9. Random single-bit flips by bit position (selected bits).</p><figure><img src="figures/corrupt.png" alt="corrupt"><figcaption>Figure 8. Left: columns that fail after an in-place edit, by edited layer. Right: effect of a single bit flip by bit position.</figcaption></figure>
 <h2>9. Cost</h2><p>On NVIDIA GeForce RTX 5060 Laptop GPU, Llama-3.2-1B, bf16. The influence pass reads the cache once with the question tokens, which the trusted node does anyway to answer, so in a fused implementation it would be nearly free. Here we time it separately. An audit of 16 columns plus the influence pass costs 101.8% of a prefill at 512 tokens and 6.0% at 16384 tokens. The audit has a floor of about 30 ms: our unfused PyTorch code launches dozens of small kernels per layer, so on short documents it costs as much as a prefill. Above that floor, the prefill grows quadratically in T while the audit is a fixed number of tokens attending to T columns, so the gap widens with length. Our implementation is plain PyTorch with explicit attention for the audited rows. The prefill uses SDPA.</p><table class="small"><tr><th>T</th><th>KV (MiB)</th><th>prefill (ms)</th><th>influence (ms)</th><th>8 cols (ms)</th><th>16 cols (ms)</th><th>64 cols (ms)</th><th>full check (ms)</th><th>influence + 16 / prefill</th></tr><tr><td>512</td><td>16</td><td>62</td><td>31.7</td><td>31.2</td><td>31.6</td><td>35.4</td><td>69</td><td>101.8%</td></tr><tr><td>1024</td><td>32</td><td>164</td><td>41.1</td><td>40.9</td><td>39.5</td><td>39.8</td><td>194</td><td>49.1%</td></tr><tr><td>2048</td><td>64</td><td>178</td><td>30.7</td><td>30.2</td><td>31.8</td><td>30.1</td><td>663</td><td>35.2%</td></tr><tr><td>4096</td><td>128</td><td>420</td><td>36.4</td><td>32.6</td><td>36.3</td><td>47.7</td><td>2105</td><td>17.3%</td></tr><tr><td>8192</td><td>256</td><td>1007</td><td>61.2</td><td>29.5</td><td>30.6</td><td>70.9</td><td>–</td><td>9.1%</td></tr><tr><td>16384</td><td>512</td><td>2572</td><td>104.7</td><td>35.7</td><td>50.3</td><td>127.6</td><td>–</td><td>6.0%</td></tr></table><p class='cap'>Table 10. Median wall-clock time of 5 runs.</p><figure><img src="figures/cost.png" alt="cost"><figcaption>Figure 9. Time for prefill, a full check, and audits of 16 and 64 columns, by document length.</figcaption></figure>

diff --git a/experiments/paper.py b/experiments/paper.py
@@ -402,24 +402,33 @@ def defense_text():
         notes.append(f"On {name}, against a 32-column audit the attacker's best reply wins {pct(g['mean'][0])} of the time if the verifier uses the default "
                      f"mean score, {pct(g['random'][0])} against random columns, and {pct(g[best][0])} against the best plan, "
                      f"<i>{dict(DEF_PLANS)[best]}</i> (its best reply there: <i>{'no hiding' if g[best][1] == 'none' else 'hides from ' + g[best][1]}</i>)")
-    k0 = next(iter(G))
-    st = def_stats(DEF[k0])
-    tm = st.get("tokmax")
-    tok = (f" An attacker that optimises directly against tokmax on {dict(MODELS)[k0]} succeeds in only {tm['succ']}/{tm['n']} tasks "
-           f"and is still caught {pct(tm['det']['tokmax'])} of the time by it." if tm and tm["succ"] else "")
+    def w(pk, k, B="32"):
+        return pct(G[k][B][pk][0]) if k in G else "–"
+    ks = [k for k, _ in MODELS if k in G]
+    nm = {k: dict(MODELS)[k] for k in ks}
+    find = ("<p><b>What holds on both models.</b> "
+            f"(1) The default mean score is the easiest to game: the best reply beats a 32-column mean audit " + " and ".join(f"{w('mean', k)} of the time on {nm[k]}" for k in ks)
+            + ", no better than 32 random columns (" + ", ".join(w('random', k) for k in ks) + "). "
+            "(2) No single public score is robust across models. The finest one, tokmax (per head, layer and reader token), holds the attacker to "
+            + " but ".join(f"{w('tokmax', k)} on {nm[k]}" for k in ks) + ". "
+            "(3) Tracing is the most consistent plan: " + " and ".join(f"{w('trace', k)} on {nm[k]}" for k in ks)
+            + ". It does not rely on any one score, but follows the path the forged information has to take to reach the question. "
+            "The attacker that also optimises against the trace rule did exactly as well as the one that ignores it, in success and in detection. "
+            "Our differentiable copy of the trace covers one hop from a fixed set of read columns, while the verifier keeps following hops until its budget "
+            "runs out; a stronger trace-aware attacker is the obvious next step. "
+            "(4) Secret head subsets help only modestly (" + ", ".join(w('secret', k) for k in ks) + "): an attacker that is quiet in every head "
+            "is quiet in any subset of them.</p>"
+            "<p>Two caveats. The attackers hide below rank 28, which matches the 32-column budget. At 64 columns every attention-based plan looks "
+            "strong (" + ", ".join(f"tracing {w('trace', k, '64')} on {nm[k]}" for k in ks) + ") only because the attackers were not told about the larger "
+            "budget. And all of these are games against our optimiser (150 Adam steps, one hinge loss per score), so the rates describe a modest white-box "
+            "attacker, not a bound. Random columns give the only attacker-independent guarantee, and at k/T it is a weak one.</p>")
     return ("<p><b>The game.</b> An audit plan is only as good as the attacker's best reply to it. For each plan, Table 6 gives the share of tasks in which the "
             "<i>best</i> of our seven attackers both flips the answer and escapes the audit (success rate × miss rate, maximised over attackers). "
             + ". ".join(notes) + ".</p>"
             + table(head, rows, "small")
             + "<p class='cap'>Table 6. Worst-case attacker win rate per audit plan (lower is better for the verifier), at audit budgets of 16, 32 and 64 columns.</p>"
             + fig("game", "Figure 6. The attacker's best reply to each 32-column audit plan: how often it both flips the answer and escapes the audit.")
-            + "<p>Three findings. First, <b>the finest score is the hardest to game</b>. Per-reader-token value-weighted attention (tokmax) makes the attacker "
-            "keep its column quiet in every head of every layer for every question and answer token, while still moving the answer." + tok + " "
-            "Second, <b>secrecy over heads buys little</b>. An attacker that hides from per-head scores keeps its column quiet in every head, and a secret subset "
-            "of heads inherits that. Third, <b>tracing helps against some attackers and not others</b>. It catches forgeries that are laundered through later columns, "
-            "but in our runs it does not beat the best public score at equal budget. The deterministic plans all remain games against a known optimiser. "
-            "Our attackers are 150 Adam steps with one hinge loss per score, so these rates are what a modest white-box attacker achieves, not a bound. "
-            "Random columns give the only attacker-independent guarantee, and at k/T it is a weak one.</p>")
+            + find)
 
 
 def sec_innoise():
